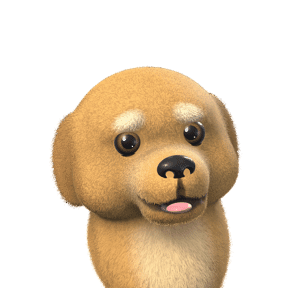
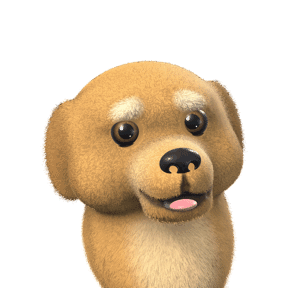
Tiere: nach dem echten Tier, das sie darstellen
Waldkauz mit dunklen Augen statt der orangen des Uhus, Reh ohne weisse
Brauen, gewoehnlicher laenglicher Goldfisch statt Zuchtkugel,
Buckelwal schiefergrau, Retriever mit erwachsenem Kopf, Fuchs
schmaler, Dackel seidig-matt, Katze mit flacherem Unterlid.

Pruef-alles: alle 9 bestanden.

diff --git a/tools/figuren_rendern/Tiere.swift b/tools/figuren_rendern/Tiere.swift
@@ -414,7 +414,7 @@ func fuchs() -> (SCNNode, Float, V) {
         Form(art: .ellipsoid(V(0.84, 0.66, 0.78)), mitte: V(0, 0.16, -0.10)),
         Form(art: .ellipsoid(V(0.46, 0.32, 0.38)), mitte: V(-0.62, -0.20, 0.08), weich: 0.28),
         Form(art: .ellipsoid(V(0.46, 0.32, 0.38)), mitte: V(0.62, -0.20, 0.08), weich: 0.28),
-        Form(art: .rundkegel(V(0, -0.26, 1.34), 0.30, 0.09), mitte: V(0, -0.04, 0.38), weich: 0.24),
+        Form(art: .rundkegel(V(0, -0.26, 1.34), 0.27, 0.085), mitte: V(0, -0.04, 0.38), weich: 0.24),
         Form(art: .rundkegel(V(0, -0.06, 0.98), 0.21, 0.07), mitte: V(0, -0.30, 0.40), weich: 0.16),
         Form(art: .ellipsoid(V(0.50, 0.20, 0.28)), mitte: V(0, 0.35, 0.48), weich: 0.25),
     ]
@@ -439,7 +439,7 @@ func fuchs() -> (SCNNode, Float, V) {
     var (braue, braueM) = mitBrauen(kopf, x: 0.30, y: 0.39, laenge: 0.14, dicke: 0.055, winkel: 0.25, farbe: mische(rot, dunkel, 0.45), staerke: 0.8)
     braue.haar = haarKarte(kopf, FellKarte(kopf: 0.07, rumpf: 0.11, nase: V(0, -0.290, 1.740), schnauze: 0.9,
         augen: augenStellen(kopf, x: 0.34, y: 0.18), augenR: 0.17,
-        zonen: beide(V(0.62, -0.22, 0.10), V(0.45, 0.35, 0.45), 2.2) + [(V(0, 0.95, -0.1), V(0.9, 0.35, 0.5), 0.35), (V(0, -1.0, 0.6), V(0.5, 0.6, 0.5), 1.5)]), braue: braueM)
+        zonen: beide(V(0.62, -0.22, 0.10), V(0.45, 0.35, 0.45), 1.5) + [(V(0, 0.95, -0.1), V(0.9, 0.35, 0.5), 0.35), (V(0, -1.0, 0.6), V(0.5, 0.6, 0.5), 1.5)]), braue: braueM)
     braue.fellArt = Fell(dichte: 75, ursprung: V(0, -0.290, 1.740), spitze: 1.04, straehnen: 0.55)
     // Fuchs: schwarze Lefzen, die unter der Nase beginnen und an den Seiten der Schnauze zum Mundwinkel
     // ansteigen — das "Fuchslaecheln".
@@ -513,7 +513,7 @@ func katze() -> (SCNNode, Float, V) {
     })
     let w = SCNNode(); w.addChildNode(brustKnoten(koerper))
     tierNase(w, mitte: V(0, -0.08, 0.93), r: V(0.095, 0.06, 0.06), farbe: hex("#C97F7C"), dreieck: true)
-    augenEinsetzen(w, kopf, x: 0.33, y: 0.12, r: 0.21, iris: NSColor(calibratedRed: 0.62, green: 0.74, blue: 0.22, alpha: 1), pupille: 0.55, schlitz: true, schlitzBreite: 0.62, ausdruck: Ausdruck(oben: 0.10, unten: 0.19, schraeg: 0.14, funke: 1.5, wange: 0.40))
+    augenEinsetzen(w, kopf, x: 0.33, y: 0.12, r: 0.21, iris: NSColor(calibratedRed: 0.62, green: 0.74, blue: 0.22, alpha: 1), pupille: 0.55, schlitz: true, schlitzBreite: 0.62, ausdruck: Ausdruck(oben: 0.10, unten: 0.07, schraeg: 0.14, funke: 1.5, wange: 0.40))
     w.eulerAngles = SCNVector3(0.06, 0.34, 0.12)
     return (w, 7.3, V(0, 0.18, 0))
 }
@@ -692,8 +692,8 @@ func reh() -> (SCNNode, Float, V) {
         c = mische(c, dunkel, glatt(1.25, 1.38, abs(p.x)) * ohr)
         return c
     }, rauheit: 0.75, fell: 0.06)
-    // Reh: die weissen Flecken ueber den Augen sind seine Brauen; kurzes, glattes, anliegendes Fell.
-    var (braue, braueM) = mitBrauen(kopf, x: 0.34, y: 0.41, laenge: 0.11, dicke: 0.045, winkel: 0.2, farbe: weiss, staerke: 0.85)
+    // Reh: nur ein Hauch heller ueber dem Auge (weisse Brauen hat es nicht); kurzes, anliegendes Fell.
+    var (braue, braueM) = mitBrauen(kopf, x: 0.34, y: 0.41, laenge: 0.11, dicke: 0.045, winkel: 0.2, farbe: mische(braun, weiss, 0.30), staerke: 0.45, wulst: 0.6)
     braue.haar = haarKarte(kopf, FellKarte(kopf: 0.025, rumpf: 0.03, nase: V(0, -0.360, 1.380), schnauze: 0.6,
         augen: augenStellen(kopf, x: 0.36, y: 0.22), augenR: 0.17, braue: 0.3,
         zonen: beide(V(0.92, 0.62, -0.18), V(0.55, 0.30, 0.25), 0.6)), braue: braueM)
@@ -743,11 +743,11 @@ func dackel() -> (SCNNode, Float, V) {
         c = mische(c, hell, region(p, V(0, -0.30, 0.95), V(0.30, 0.18, 0.40), 0.4) * 0.5)
         c *= 1 - 0.20 * glatt(1.1, 1.45, p.z)                                    // Schnauzenspitze dunkler
         return c
-    }, rauheit: 0.42, fell: 0.015)
+    }, rauheit: 0.56, fell: 0.02)
     // Dackel: deutlicher Brauenwulst, dunkler schattiert — der treuherzige Dackelblick; Kurzhaar,
     // glatt und anliegend.
     var (braue, braueM) = mitBrauen(kopf, x: 0.27, y: 0.38, laenge: 0.11, dicke: 0.065, winkel: 0.38, farbe: dunkel, staerke: 0.75)
-    braue.haar = haarKarte(kopf, FellKarte(kopf: 0.011, rumpf: 0.013, nase: V(0, -0.17, 1.44), schnauze: 0.7,
+    braue.haar = haarKarte(kopf, FellKarte(kopf: 0.014, rumpf: 0.016, nase: V(0, -0.17, 1.44), schnauze: 0.7,
         augen: augenStellen(kopf, x: 0.30, y: 0.20), augenR: 0.15, braue: 0.3), braue: braueM)
     // Glattes Kurzhaar glaenzt: wenig Abstand, kaum Helligkeitsunterschied, glatte Haut darunter.
     braue.fellArt = Fell(dichte: 160, dicke: 0.5, aufrecht: 0.15, neigung: 2.0, ursprung: V(0, -0.17, 1.44), wurzel: 0.85, spitze: 1.03, straehnen: 0.05, streuung: 0.04)
@@ -771,11 +771,12 @@ func dackel() -> (SCNNode, Float, V) {
 func hund() -> (SCNNode, Float, V) {
     let gold = hex("#D6A15A"), hell = hex("#EFD3A4"), dunkel = hex("#A8743A")
     var formen: [Form] = [
-        Form(art: .ellipsoid(V(0.86, 0.80, 0.84)), mitte: V(0, 0.12, -0.05)),
+        // Erwachsener Golden Retriever: breiter, flacher Schaedel, Schnauze fast so lang wie der Schaedel.
+        Form(art: .ellipsoid(V(0.84, 0.72, 0.88)), mitte: V(0, 0.10, -0.08)),
         Form(art: .ellipsoid(V(0.46, 0.36, 0.40)), mitte: V(-0.40, -0.25, 0.35), weich: 0.30),
         Form(art: .ellipsoid(V(0.46, 0.36, 0.40)), mitte: V(0.40, -0.25, 0.35), weich: 0.30),
         // Schnauze: breit, tief und laenger als beim Welpen, mit deutlichem Stop zur Stirn
-        Form(art: .ellipsoid(V(0.37, 0.31, 0.47)), mitte: V(0, -0.20, 0.95), weich: 0.25),
+        Form(art: .ellipsoid(V(0.36, 0.31, 0.54)), mitte: V(0, -0.21, 1.00), weich: 0.25),
         Form(art: .ellipsoid(V(0.55, 0.22, 0.32)), mitte: V(0, 0.36, 0.50), weich: 0.25),
     ]
     // Schlappohren: haengen seitlich herab.
@@ -787,32 +788,32 @@ func hund() -> (SCNNode, Float, V) {
     formen += lider(0.32, 0.20, 0.68, 0.14)
     let kopf = Koerper(formen: formen, farbe: { p, n in
         var c = farbeMitRauschen(gold, p, 0.08)
-        c = mische(c, hell, region(p, V(0, -0.20, 0.95), V(0.40, 0.30, 0.30), 0.4) * 0.75)
+        c = mische(c, hell, region(p, V(0, -0.210, 1.070), V(0.40, 0.30, 0.30), 0.4) * 0.75)
         c = mische(c, dunkel, glatt(0.74, 0.86, abs(p.x)) * 0.75)   // Ohren dunkler golden
         return c
     }, rauheit: 0.78, fell: 0.08)
     // Retriever: helle, bewegliche Brauenbueschel, innen angehoben; langes, welliges Fell, das an Ohren
     // und Brust in Fahnen faellt.
     var (braue, braueM) = mitBrauen(kopf, x: 0.29, y: 0.39, laenge: 0.12, dicke: 0.06, winkel: 0.35, farbe: hex("#F6E6C6"), staerke: 0.9)
-    braue.haar = haarKarte(kopf, FellKarte(kopf: 0.045, rumpf: 0.12, nase: V(0, -0.05, 1.32), schnauze: 0.6,
+    braue.haar = haarKarte(kopf, FellKarte(kopf: 0.045, rumpf: 0.12, nase: V(0, -0.060, 1.440), schnauze: 0.6,
         augen: augenStellen(kopf, x: 0.32, y: 0.20), augenR: 0.15,
         braue: 1.2, zonen: beide(V(0.82, 0.02, -0.02), V(0.32, 0.55, 0.25), 2.0) + [(V(0, -1.0, 0.6), V(0.55, 0.6, 0.5), 1.5)]), braue: braueM)
-    braue.fellArt = Fell(dichte: 60, schwere: 0.9, ursprung: V(0, -0.04, 1.18), straehnen: 0.7)
+    braue.fellArt = Fell(dichte: 60, schwere: 0.9, ursprung: V(0, -0.050, 1.300), straehnen: 0.7)
     // Retriever: das offene Hundelachen — Rinne unter der Nase, Mundwinkel weit hinten und hoch, dazwischen
     // ein offenes Maul mit Zunge. Der Unterkiefer gibt dem offenen Maul unten einen Rand.
     var kiefer = braue
-    kiefer.formen.append(Form(art: .ellipsoid(V(0.28, 0.13, 0.30)), mitte: V(0, -0.47, 1.00), weich: 0.18))
-    let maul = mitMaul(kiefer, Maul(kurven: [Kurve(punkte: [V(0, -0.16, 1.37), V(0, -0.25, 1.35), V(0, -0.31, 1.32)], spitzHinten: false)]
-        + paar(Kurve(punkte: [V(0, -0.31, 1.32), V(0.09, -0.36, 1.27), V(0.19, -0.35, 1.17), V(0.27, -0.27, 1.04)], spitzVorn: false)),
+    kiefer.formen.append(Form(art: .ellipsoid(V(0.28, 0.13, 0.30)), mitte: V(0, -0.480, 1.120), weich: 0.18))
+    let maul = mitMaul(kiefer, Maul(kurven: [Kurve(punkte: [V(0, -0.170, 1.490), V(0, -0.260, 1.470), V(0, -0.320, 1.440)], spitzHinten: false)]
+        + paar(Kurve(punkte: [V(0, -0.320, 1.440), V(0.09, -0.370, 1.390), V(0.19, -0.360, 1.290), V(0.27, -0.280, 1.160)], spitzVorn: false)),
         r: 0.032, farbe: hex("#3A2414"), staerke: 0.85,
-        hoehlen: [Form(art: .ellipsoid(V(0.17, 0.075, 0.16)), mitte: V(0, -0.395, 1.24), weich: 0.04)]))
+        hoehlen: [Form(art: .ellipsoid(V(0.17, 0.075, 0.16)), mitte: V(0, -0.405, 1.360), weich: 0.04)]))
     let bau = Bau(brust: 1.2, tiefe: 1.1, hals: 0.48, bein: 0.20, beinAbstand: 0.26, ruecken: 0.70)
     let koerper = brustbild(maul, vierbeiner(bau), farbe: { p, _ in
         mische(farbeMitRauschen(gold, p, 0.08), farbeMitRauschen(hell, p, 0.05), latz(p, breite: 0.38) * 0.7)
     })
     let w = SCNNode(); w.addChildNode(brustKnoten(koerper))
-    tierNase(w, mitte: V(0, -0.05, 1.32), r: V(0.18, 0.12, 0.12), farbe: hex("#171112"))
-    w.addChildNode(perle(V(0, -0.44, 1.22), V(0.12, 0.045, 0.13), farbe: NSColor(calibratedRed: 0.90, green: 0.45, blue: 0.50, alpha: 1), rauheit: 0.35))
+    tierNase(w, mitte: V(0, -0.060, 1.440), r: V(0.18, 0.12, 0.12), farbe: hex("#171112"))
+    w.addChildNode(perle(V(0, -0.450, 1.340), V(0.12, 0.045, 0.13), farbe: NSColor(calibratedRed: 0.90, green: 0.45, blue: 0.50, alpha: 1), rauheit: 0.35))
     augenEinsetzen(w, kopf, x: 0.32, y: 0.20, r: 0.16, iris: NSColor(calibratedRed: 0.42, green: 0.24, blue: 0.10, alpha: 1), pupille: 0.58, ausdruck: Ausdruck(oben: 0.06, unten: 0.20, schraeg: 0.10, funke: 1.5, wange: 0.25))
     w.eulerAngles = SCNVector3(0.06, 0.18, 0.14)
     return (w, 7.6, V(0, 0.12, 0.1))
@@ -855,7 +856,8 @@ func eule() -> (SCNNode, Float, V) {
     let w = SCNNode(); w.addChildNode(kopfKnoten(braue, grenze: 1.9))
     // Schnabel: klein, gebogen, zwischen den Augen.
     nase(w, [Form(art: .rundkegel(V(0, -0.20, 0.10), 0.09, 0.02), mitte: V(0, 0.28, 0.82))], farbe: hex("#3B3330"), lack: 0.3, rauheit: 0.45)
-    augenEinsetzen(w, kopf, x: 0.30, y: 0.42, r: 0.20, tiefe: 0.35, iris: NSColor(calibratedRed: 0.95, green: 0.62, blue: 0.10, alpha: 1), pupille: 0.58, aussen: 0.1, ausdruck: Ausdruck(oben: 0.06, unten: 0.12, schraeg: 0.08, funke: 1.5, wange: 0.30, zwinkern: true))
+    // Waldkauz: dunkle, fast schwarze Augen — gelbe haben Uhu und Steinkauz.
+    augenEinsetzen(w, kopf, x: 0.30, y: 0.42, r: 0.20, tiefe: 0.35, iris: NSColor(calibratedRed: 0.20, green: 0.11, blue: 0.06, alpha: 1), pupille: 0.62, aussen: 0.1, ausdruck: Ausdruck(oben: 0.06, unten: 0.12, schraeg: 0.08, funke: 1.5, wange: 0.30, zwinkern: true))
     w.eulerAngles = SCNVector3(0.02, -0.12, -0.16)
     return (w, 8.2, V(0, 0.05, 0))
 }
@@ -865,7 +867,7 @@ func eule() -> (SCNNode, Float, V) {
 func wal() -> (SCNNode, Float, V) {
     // Nach dem Buckelwal: flacher, breiter Kopf mit Hoeckerchen, lange helle Brustflossen, kleine
     // Rueckenfinne, waagerechte Fluke, Kehlfurchen. Matte, fein marmorierte Haut statt Plastik.
-    let blau = hex("#3D5A75"), bauch = hex("#DCE1E4"), flosseHell = hex("#E8ECEC")
+    let blau = hex("#2E3944"), bauch = hex("#DDE1E3"), flosseHell = hex("#ECEFEF")
     var formen: [Form] = [
         Form(art: .rundkegel(V(-2.0, 0.30, 0), 0.68, 0.14), mitte: V(0.75, -0.1, 0), stauchung: V(1, 0.82, 1)),
         Form(art: .ellipsoid(V(0.85, 0.52, 0.62)), mitte: V(0.58, -0.16, 0), weich: 0.4),
@@ -922,16 +924,17 @@ func wal() -> (SCNNode, Float, V) {
 func goldfisch() -> (SCNNode, Float, V) {
     let orange = hex("#EE7A1F"), gelb = hex("#F6C35A"), flosse = hex("#F3A04A")
     let formen: [Form] = [
-        Form(art: .ellipsoid(V(0.95, 0.72, 0.42)), mitte: V(0.15, 0, 0)),
-        Form(art: .ellipsoid(V(0.40, 0.42, 0.34)), mitte: V(0.75, -0.02, 0), weich: 0.3),
+        // Gewoehnlicher Goldfisch: laenglich und seitlich flach, keine Zuchtkugel.
+        Form(art: .ellipsoid(V(1.10, 0.58, 0.32)), mitte: V(0.05, 0, 0)),
+        Form(art: .ellipsoid(V(0.42, 0.40, 0.29)), mitte: V(0.72, -0.02, 0), weich: 0.3),
         // Schwanzflosse (zweilappig, gefaechert)
-        Form(art: .ellipsoid(V(0.55, 0.30, 0.05)), mitte: V(-1.05, 0.30, 0), drehung: simd_quatf(angle: 0.5, axis: V(0, 0, 1)), weich: 0.15),
-        Form(art: .ellipsoid(V(0.55, 0.30, 0.05)), mitte: V(-1.05, -0.30, 0), drehung: simd_quatf(angle: -0.5, axis: V(0, 0, 1)), weich: 0.15),
+        Form(art: .ellipsoid(V(0.62, 0.22, 0.04)), mitte: V(-1.25, 0.30, 0), drehung: simd_quatf(angle: 0.55, axis: V(0, 0, 1)), weich: 0.15),
+        Form(art: .ellipsoid(V(0.62, 0.22, 0.04)), mitte: V(-1.25, -0.30, 0), drehung: simd_quatf(angle: -0.55, axis: V(0, 0, 1)), weich: 0.15),
         // Rueckenflosse, Bauchflossen
-        Form(art: .ellipsoid(V(0.45, 0.30, 0.05)), mitte: V(0.0, 0.72, 0), drehung: simd_quatf(angle: -0.3, axis: V(0, 0, 1)), weich: 0.12),
-        Form(art: .ellipsoid(V(0.25, 0.14, 0.05)), mitte: V(0.30, -0.70, 0.18), drehung: simd_quatf(angle: 0.6, axis: V(0, 0, 1)), weich: 0.1),
+        Form(art: .ellipsoid(V(0.50, 0.36, 0.04)), mitte: V(-0.05, 0.66, 0), drehung: simd_quatf(angle: -0.35, axis: V(0, 0, 1)), weich: 0.12),
+        Form(art: .ellipsoid(V(0.25, 0.14, 0.04)), mitte: V(0.20, -0.58, 0.14), drehung: simd_quatf(angle: 0.6, axis: V(0, 0, 1)), weich: 0.1),
         // Brustflosse
-        Form(art: .ellipsoid(V(0.22, 0.12, 0.05)), mitte: V(0.45, -0.25, 0.40), drehung: simd_quatf(angle: 0.4, axis: V(0, 1, 0)), weich: 0.08),
+        Form(art: .ellipsoid(V(0.22, 0.12, 0.04)), mitte: V(0.45, -0.25, 0.30), drehung: simd_quatf(angle: 0.4, axis: V(0, 1, 0)), weich: 0.08),
     ]
     // Goldfisch: ein rundes, offenes "o" aus wulstigen Lippen vorn am Kopf.
     let lippe = Form(art: .ellipsoid(V(0.12, 0.13, 0.15)), mitte: V(1.08, -0.12, 0), weich: 0.10)
@@ -959,7 +962,7 @@ func goldfisch() -> (SCNNode, Float, V) {
     let w = SCNNode(); w.addChildNode(kopfKnoten(koerper, grenze: 1.8, n: 170))
     for sz: Float in [-1, 1] {
         // Staunend: weit offen, grosser Lichtpunkt, Blick nach oben.
-        seitenAuge(w, koerper, x: 0.78, y: 0.15, tiefe: 0.06, sz: sz, r: 0.17,
+        seitenAuge(w, koerper, x: 0.82, y: 0.12, tiefe: 0.06, sz: sz, r: 0.14,
                    iris: NSColor(calibratedRed: 0.85, green: 0.62, blue: 0.20, alpha: 1), pupille: 0.62,
                    Ausdruck(oben: 0.08, unten: 0.00, schraeg: 0.1, funke: 1.7))
     }

diff --git a/docs/ios-huelle-journal.md b/docs/ios-huelle-journal.md
@@ -7,12 +7,12 @@ gehoert ebenfalls hierher — nicht stillschweigend uebersprungen. Neueste Eintr
 
 ---
 
-## ÜBERGABE an die naechste Sitzung (Stand 2026-10-15, nach Runde 145)
+## ÜBERGABE an die naechste Sitzung (Stand 2026-10-15, nach Runde 146)
 
 **Lies NUR diesen Block.** Er genuegt allein; die Eintraege darunter sind Begruendungen zum
 Nachschlagen. Dazu `tools/xcode-CLAUDE.md` (liegt als `ios/App/CLAUDE.md` neben der `.xcodeproj`
 und wird von Xcode geladen) und die `CLAUDE.md` im Wurzelverzeichnis. Zuletzt vollstaendig
-durchgesehen nach Runde 145 — es gilt dieser Block, nicht aeltere Fassungen.
+durchgesehen nach Runde 146 — es gilt dieser Block, nicht aeltere Fassungen.
 
 ### Wie der Inhaber arbeitet
 
@@ -40,7 +40,8 @@ Regeln, die er gesetzt hat:
 
 | Runde | Commit | Inhalt |
 | --- | --- | --- |
-| 145 | — | Panda und Hase echt proportioniert; Ohren und Flossen durchscheinend (`duenne`, Shader `durchschein…`); feinere Iris; nasse Haut (`Koerper.lack`); Goldfisch mit Dachziegel-Schuppen |
+| 146 | — | Nach dem echten Tier: Waldkauz dunkle Augen, Reh ohne weisse Brauen, gewoehnlicher (laenglicher) Goldfisch, Buckelwal schiefergrau, Retriever erwachsen, Fuchs schmaler, Dackel seidig, Katze flacheres Unterlid |
+| 145 | `b92ea2b` | Panda und Hase echt proportioniert; Ohren und Flossen durchscheinend (`duenne`, Shader `durchschein…`); feinere Iris; nasse Haut (`Koerper.lack`); Goldfisch mit Dachziegel-Schuppen |
 | 144 | `571179b` | Echte Kopfproportionen bei Fuchs, Reh, Baer (lange Schnauzen, kleinere Hirnschale); weisses Fell bleibt weiss |
 | 143 | `153affe` | Fotorealistisch, aber liebenswert: keine Wangenroete, kleinere Augen mit dunklem Lidrand, echte Pupillenformen, Nasen mit Nasenloechern, weicheres Licht, Rendern in 2048 px; Retriever mit Schlappohren, Katze fein getigert. Kaltstart gemessen (siehe Eintrag) |
 | 142 | `9b90074` | Wal und Schildkroete: zum Betrachter gedreht, Augen weiter vorn, naeher zugeschnitten (`NAEHER` in `figuren_holen.py`) |
@@ -242,6 +243,27 @@ Branch `claude/lucenta-setup-browser-test-j6hn7f`, **nicht gepusht**, kein Pull 
 Arbeitsbaum sauber bis auf `ios/App/App.xcworkspace/xcshareddata/` (absichtlich unversioniert).
 
 ---
+
+## Runde 146 — Nach dem echten Tier, das sie darstellen
+
+**Auftrag des Inhabers:** „Die Modelle muessen noch realistischer nach den echten Tieren sein, die sie
+repraesentieren."
+
+**Vorgehen:** Je Tier die Kennzeichen der echten Art gegen das Modell gehalten — nicht „mehr Detail",
+sondern: Was stimmt an diesem Tier nicht?
+- **Eule = Waldkauz:** hat dunkelbraune, fast schwarze Augen. Unsere orangen waren die des Uhus bzw.
+  Steinkauzes. Jetzt dunkel. (Das Zwinkern bleibt — Entscheidung aus Runde 137.)
+- **Reh:** weisse Brauen gibt es nicht; nur ein Hauch heller ueber dem Auge. Kinn und Kehlfleck bleiben.
+- **Goldfisch:** war eine Zuchtkugel (Ranchu-artig). Jetzt der gewoehnliche Goldfisch: laenglich,
+  seitlich flach, hohe Rueckenflosse, laengere gegabelte Schwanzflosse, kleinere Augen.
+- **Wal = Buckelwal:** Ruecken schiefergrau bis fast schwarz statt hellblau, Bauch und Brustflossen hell.
+- **Retriever:** erwachsener Kopf — breiter, flacherer Schaedel, Schnauze fast so lang wie der Schaedel.
+- **Fuchs:** schmalere Schnauze, kleinere Wangenkrause (wirkte pausbaeckig).
+- **Dackel:** Kurzhaar seidig-matt statt lackiert. **Katze:** Unterlid flacher (lag als dunkler Balken
+  unter dem Auge).
+Rahmen von Retriever und Goldfisch am Kopf allein neu gemessen.
+
+**Grenze bleibt:** sehr gute 3D-Figuren, keine Fotos (siehe Runde 145).
 
 ## Runde 145 — Panda, Hase, durchscheinende Ohren, Iris, nasse Haut
 
